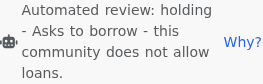
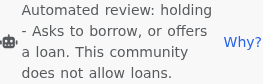
feat(automod): version 5 measured on steady moderators' decisions; sale-advert question for Offers only
Only decisions by moderators in the middle rejection-rate band count (median 1.7%, band
0.5% to 3.7%; the strictest reject 13 to 17%), which removes most "vague" rejections and
every "asked for size, no reply" one. On 516 such posts version 5 catches what it was built
to catch, and the model's adjudication of its disagreements with moderators puts its own
misses at 5 against version 4's 10, with 45 of the other 51 down to the moderator, a
template naming a rule the post does not break, or a stricter local rule.

The sale-advert question now applies to Offers only: asked of Wanteds it held traders asking
for stock ("items received will be resold", "we are a workshop"), which Freegle allows where
declared and which is a moderator's call.

scripts/walk-from-answers.mjs replays the chart from an evaluation's per-question answers
with production's gating, so a report's verdicts are production's. Screenshots regenerated
with the version 5 questions.

Changed region(s): [[0.0608, 0.5476, 0.8213, 0.7143], [0.0608, 0.7857, 0.6692, 0.9286], [0.5171, 0.2857, 0.7909, 0.4524]]

diff --git a/plans/active/automod-flowchart.md b/plans/active/automod-flowchart.md
@@ -311,3 +311,61 @@ five minutes rather than holding the post for ever.
 Also fixed on the way: production compared the model's confidence with the 0.7 threshold,
 so a "yes" given at 60% confidence was treated as no, while the offline numbers used the
 model's answer. The model's answer now decides; the confidence is shown.
+
+### Version 5 measured (28 September 2026)
+
+516 posts decided by moderators in the middle rejection-rate band: 216 rejected with a text
+reason (49 vague, 41 money, 36 not an item, 32 borrow or swap, 30 medicine, 26 animals, 2
+other) and 300 approved. Chart version 5, Claude through the CLI with the review pass, and
+Jev on the same questions. Holds by the moderator's reason:
+
+| reason | posts | v4 Claude | v5 Claude | v5 Jev |
+|---|---|---|---|---|
+| vague | 49 | 37 (76%) | 35 (71%) | 35 (71%) |
+| money | 41 | 26 (63%) | 26 (63%) | 17 (41%) |
+| not an item | 36 | 31 (86%) | 33 (92%) | 29 (81%) |
+| borrow/swap | 32 | 18 (56%) | 16 (50%) | 16 (50%) |
+| medicine | 30 | 25 (83%) | 28 (93%) | 24 (80%) |
+| animals | 26 | 24 (92%) | 25 (96%) | 25 (96%) |
+| approved | 300 | 10 (3%) | 9 (3%) | 7 (2%) |
+
+Level overall (165 of 216 rejections held against 163), which is the wrong way to read it,
+because the moderators' labels are what version 5 was built not to copy. The posts it was
+built to catch, it now catches: "I need cocker" (animal wanted), the discount code and
+the e-tickets (not an item), the appeal to buy tinned food (not an item), the copied
+cooker and sofa listings (money, sale advert), the inhaler spacer and lens solution
+(medical products). The hayfever spray is answered yes and then correctly let through,
+because that community allows non-prescription medicine.
+
+`scripts/adjudicate.mjs` then asked the model to judge every disagreement with a
+moderator, the way I had been reading them by eye. The model judging itself is a fallible
+judge too, so these are its opinion, not a score:
+
+| | v4 | v5 |
+|---|---|---|
+| rejections not held: the model's own miss | 10 | 5 |
+| the moderator's error | 18 | 21 |
+| a template naming a rule the post does not break | 20 | 16 |
+| a stricter local rule (one item per post, sizes) | 10 | 8 |
+| approved posts held: the model's error | 7 | 8 |
+| approved posts held: the moderator missed it | 1 | 1 |
+
+The five remaining misses are a copied sale advert with no price and "Buyer must remove"
+(the model reads it as free), a "real bargain" leather suite, a torque wrench wanted on a
+community that rejects most tool requests as loans, one multi-item Wanted, and one medical
+item. The eight false holds are the vagueness boundary (a brand of devices, "clothes for a
+woman" with sizes, "plants and seeds") and Wanteds the sale-advert question read as a
+trader collecting stock. Asked on its own, its evidence shows why: "Items received in
+response to this request will be resold", "trying to make a living upcycling", "We are a
+workshop". Those are traders asking for stock, which Freegle allows where it is declared
+(the declareselling rule) and which is a moderator's call, so the sale-advert question
+now applies to Offers only.
+
+Jev is level with Claude on the item questions and well behind on money and sale adverts.
+It answers no review pass and no features, so its numbers are the plain question. It stays
+the comparison backend.
+
+What is left is mostly not the model. Of the 51 rejections version 5 does not hold, 45
+are, on the model's reading, the moderator's error, a template that names a rule the post
+does not break, or a stricter local rule. Shadow mode on real communities, with the
+step-is-wrong marks, is the way to see how often that reading is right.

diff --git a/docs/moderators/post-moderation.md b/docs/moderators/post-moderation.md
@@ -451,14 +451,16 @@ It runs in two modes, set centrally per community for the trial:
   above. A post it holds waits for you, with the reason shown.
 
 How well it does was measured against real decisions, treating neither the model nor the
-moderator as always right. On 802 posts from the last six months, the questions about the
-words held about two thirds of the posts moderators had rejected as vague, selling or
-borrowing, and most of those rejected for animals, medicines or not being an item. They
-held 3 of 200 posts moderators had approved. Many of the "vague" rejections they did not
-hold name a specific item ("Washing machine", "Bike", "Tent"): by Freegle's rule of naming
-the item those are not vague, and some communities are stricter than that. Most other
-rejections turn on things the words of a post cannot show, such as a duplicate or a
-reason the moderator did not record. That is why the facts come first, and why a
+moderator as always right. Only decisions by moderators in the middle of the range were
+used: over six months the median moderator rejects 1.7% of what they see, and the strictest
+reject 13 to 17%, so those outside the middle half were left out. On 516 such posts, the
+review held about two thirds of the posts rejected as vague, selling or borrowing, and nine
+in ten of those rejected for animals, medicines or not being an item, and held 9 of 300
+posts moderators had approved. Of the rejections it did not hold, most were, on the
+model's own reading, the moderator's error, a standard message naming a rule the post
+did not break, or a stricter local rule such as one item per post. Its own misses were
+five. Many rejections turn on things the words of a post cannot show, such as a duplicate
+or a reason the moderator did not record. That is why the facts come first, and why a
 community runs in shadow before approve-only.
 
 ## What changes for members, and what they notice
